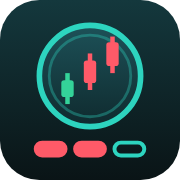
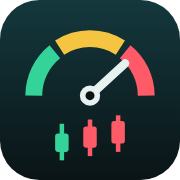
圖示改成多空儀表加三根 K 棒，拿掉藥丸
Claude-Session: https://claude.ai/code/session_01RPvYGFXRRoVrSCzdvTNVhL

Changed region(s): [[0.1389, 0.1111, 0.8611, 0.9167]]

diff --git a/index.html b/index.html
@@ -10,11 +10,11 @@
 <meta property="og:description" content="台股大盤情勢燈號、個股趨勢判斷、籌碼、基本面、強弱勢排行。">
 <meta name="theme-color" content="#0a1416">
 <!-- 圖示網址帶版本號：換圖的時候把 v 加一，瀏覽器才會重抓（分頁圖示的快取特別頑固） -->
-<link rel="icon" href="favicon.svg?v=3" type="image/svg+xml">
-<link rel="icon" href="favicon-32.png?v=3" sizes="32x32" type="image/png">
-<link rel="apple-touch-icon" href="icon-180.png?v=3">
-<link rel="manifest" href="manifest.json?v=3">
-<meta property="og:image" content="https://bocby413.github.io/stock-trend/icon-512.png?v=3">
+<link rel="icon" href="favicon.svg?v=4" type="image/svg+xml">
+<link rel="icon" href="favicon-32.png?v=4" sizes="32x32" type="image/png">
+<link rel="apple-touch-icon" href="icon-180.png?v=4">
+<link rel="manifest" href="manifest.json?v=4">
+<meta property="og:image" content="https://bocby413.github.io/stock-trend/icon-512.png?v=4">
 <style>
 /* 深色青綠的儀表板配色。漲跌顏色照台股習慣：紅漲、綠跌 */
 :root{
